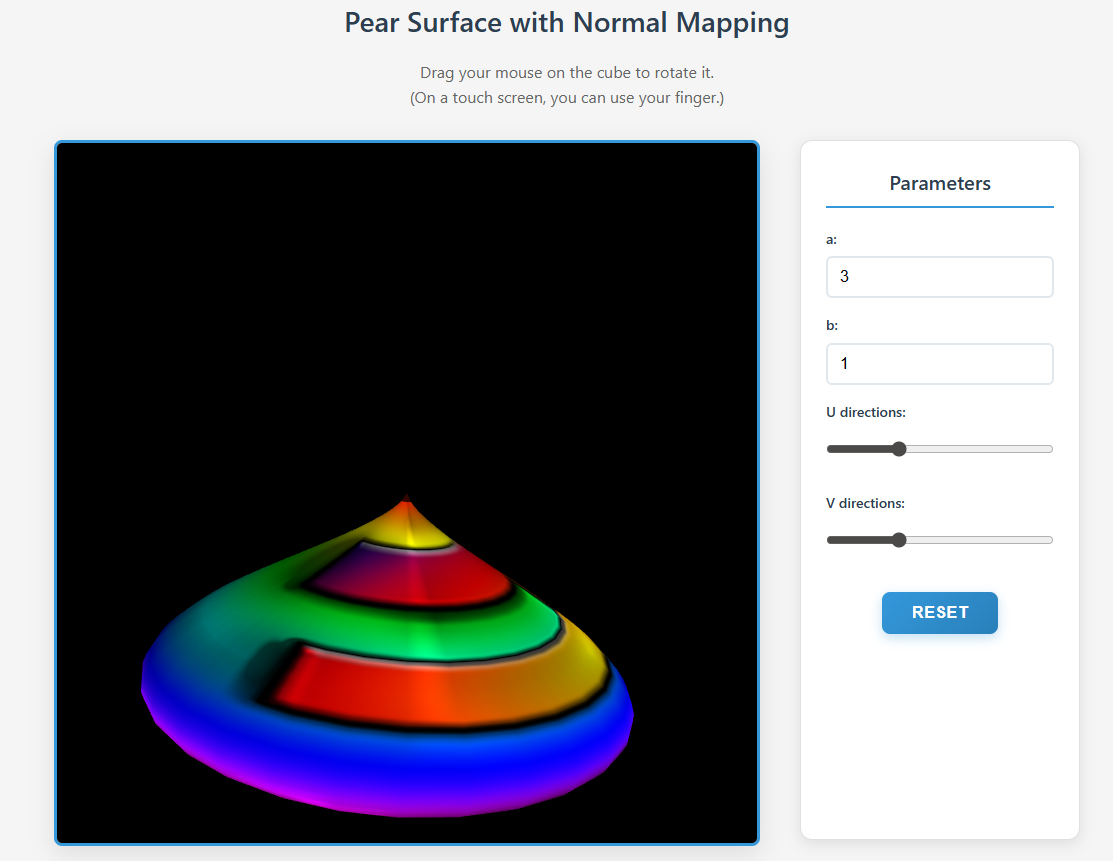
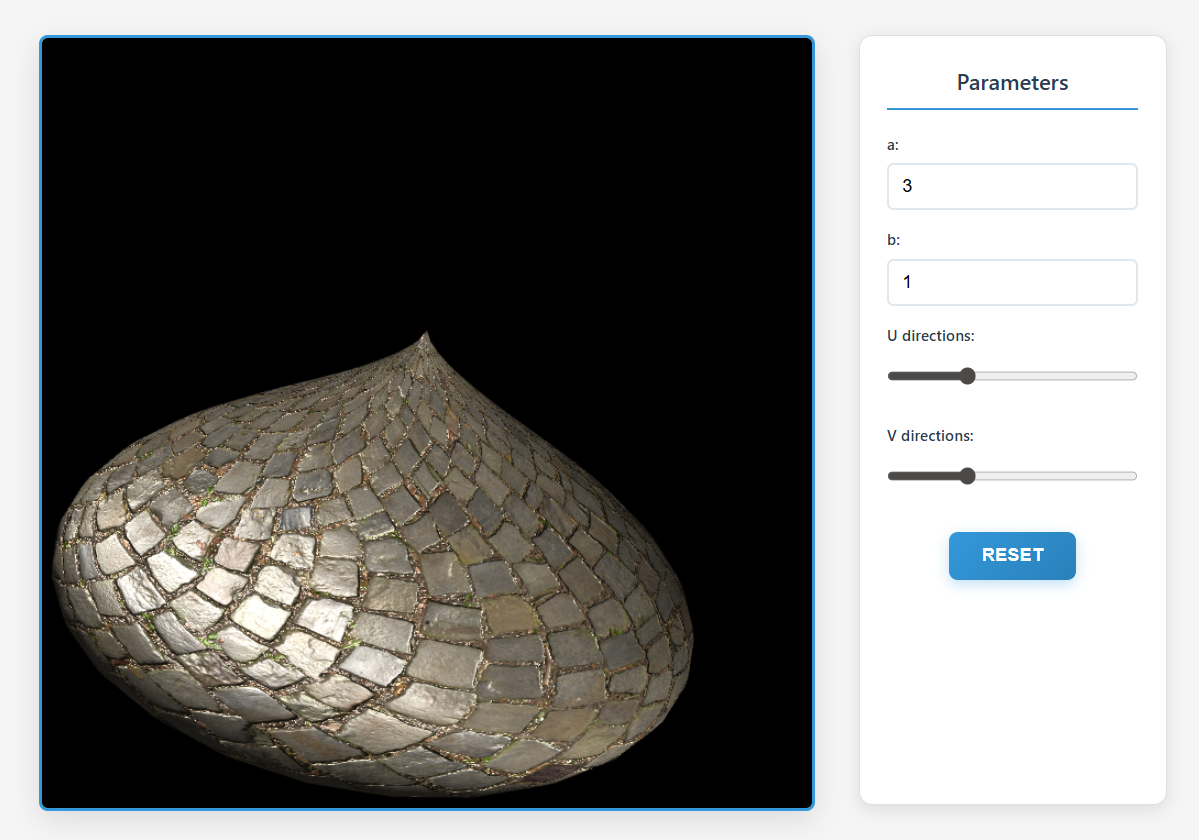
fix: Changed incorrect textures

diff --git a/main.js b/main.js
@@ -62,9 +62,10 @@ function draw() {
 
     /* Get the view matrix from the SimpleRotator object.*/
     let modelView = spaceball.getViewMatrix();
-
-    let translateToPointZero = m4.translation(0, 0, -10);
-    let matAccum1 = m4.multiply(translateToPointZero, modelView);
+    let scaleMatrix = m4.scaling(1.25, 1.25, 1.25);
+    let modelViewScaled = m4.multiply(modelView, scaleMatrix);
+    let translateToPointZero = m4.translation(0, 1, -10);
+    let matAccum1 = m4.multiply(translateToPointZero, modelViewScaled);
 
     let normalMatrix = m4.inverse(matAccum1);
     m4.transpose(normalMatrix, normalMatrix);
@@ -88,7 +89,7 @@ function draw() {
     gl.uniform3f(shProgram.iAmbientLightColor, 0.2, 0.2, 0.2); 
     gl.uniform3f(shProgram.iDiffuseLightColor, 0.8, 0.8, 0.8); 
     gl.uniform3f(shProgram.iSpecularLightColor, 1.0, 1.0, 1.0);
-    gl.uniform1f(shProgram.iShininess, 32.0);
+    gl.uniform1f(shProgram.iShininess, 10.0);
 
     surface.Draw();
 }
@@ -122,9 +123,9 @@ function initGL() {
 
     surface = new Model('Surface');
 
-    surface.idTextureDiffuse = LoadTexture('https://webglfundamentals.org/webgl/resources/f-texture.png');
-    surface.idTextureSpecular = LoadTexture('https://webglfundamentals.org/webgl/resources/keyboard.jpg');
-    surface.idTextureNormal = LoadTexture('./normal_map.png');
+    surface.idTextureDiffuse = LoadTexture('./textures/diffuse.png');
+    surface.idTextureSpecular = LoadTexture('./textures/specular.png');
+    surface.idTextureNormal = LoadTexture('./textures/normal.png');
 
     gl.enable(gl.DEPTH_TEST);
     gl.clearColor(0.2, 0.2, 0.2, 1);

diff --git a/TextureHandler.js b/TextureHandler.js
@@ -1,26 +1,28 @@
-function LoadTexture(url) {
+
+
+function LoadTexture(url)
+{
     var texture = gl.createTexture();
 
     gl.bindTexture(gl.TEXTURE_2D, texture);
-    gl.texParameteri(gl.TEXTURE_2D, gl.TEXTURE_WRAP_S, gl.REPEAT); // change to REPEAT for better tiling
-    gl.texParameteri(gl.TEXTURE_2D, gl.TEXTURE_WRAP_T, gl.REPEAT);
+    gl.texParameteri(gl.TEXTURE_2D, gl.TEXTURE_WRAP_S, gl.CLAMP_TO_EDGE);
+    gl.texParameteri(gl.TEXTURE_2D, gl.TEXTURE_WRAP_T, gl.CLAMP_TO_EDGE);
     gl.texParameteri(gl.TEXTURE_2D, gl.TEXTURE_MIN_FILTER, gl.LINEAR);
     gl.texParameteri(gl.TEXTURE_2D, gl.TEXTURE_MAG_FILTER, gl.LINEAR);
 
+    // Fill the texture with a 1x1 blue pixel as a default image
     gl.texImage2D(gl.TEXTURE_2D, 0, gl.RGBA, 1, 1, 0, gl.RGBA, gl.UNSIGNED_BYTE, new Uint8Array([0, 0, 255, 255]));
 
+    // Asynchronously load an image
     var image = new Image();
     image.crossOrigin = 'anonymous';
     image.src = url;
     image.addEventListener('load', () => {
+        // copy image to texture memory
         gl.bindTexture(gl.TEXTURE_2D, texture);
-        gl.texImage2D(gl.TEXTURE_2D, 0, gl.RGBA, gl.RGBA, gl.UNSIGNED_BYTE, image);
-        
-        // Generate mipmaps for better quality
-        gl.generateMipmap(gl.TEXTURE_2D);
-        gl.texParameteri(gl.TEXTURE_2D, gl.TEXTURE_MIN_FILTER, gl.LINEAR_MIPMAP_LINEAR);
-        
-        if (typeof draw === 'function') draw();
+        gl.texImage2D(gl.TEXTURE_2D, 0, gl.RGBA, gl.RGBA,gl.UNSIGNED_BYTE, image);
+
+        draw();
     });
 
     return texture;

diff --git a/Model.js b/Model.js
@@ -126,6 +126,9 @@ function CreateSurfaceData(data) {
             let vert = new Vertex([x, y, z], [u_tex, v_tex]);
 
             let t = TangentAnalytic(rZ, v);
+            if (Math.abs(t[0]) < 0.0001 && Math.abs(t[1]) < 0.0001 && Math.abs(t[2]) < 0.0001) {
+                t = [1, 0, 0];
+            }
             vert.tangent = t;
 
             vertices.push(vert);
